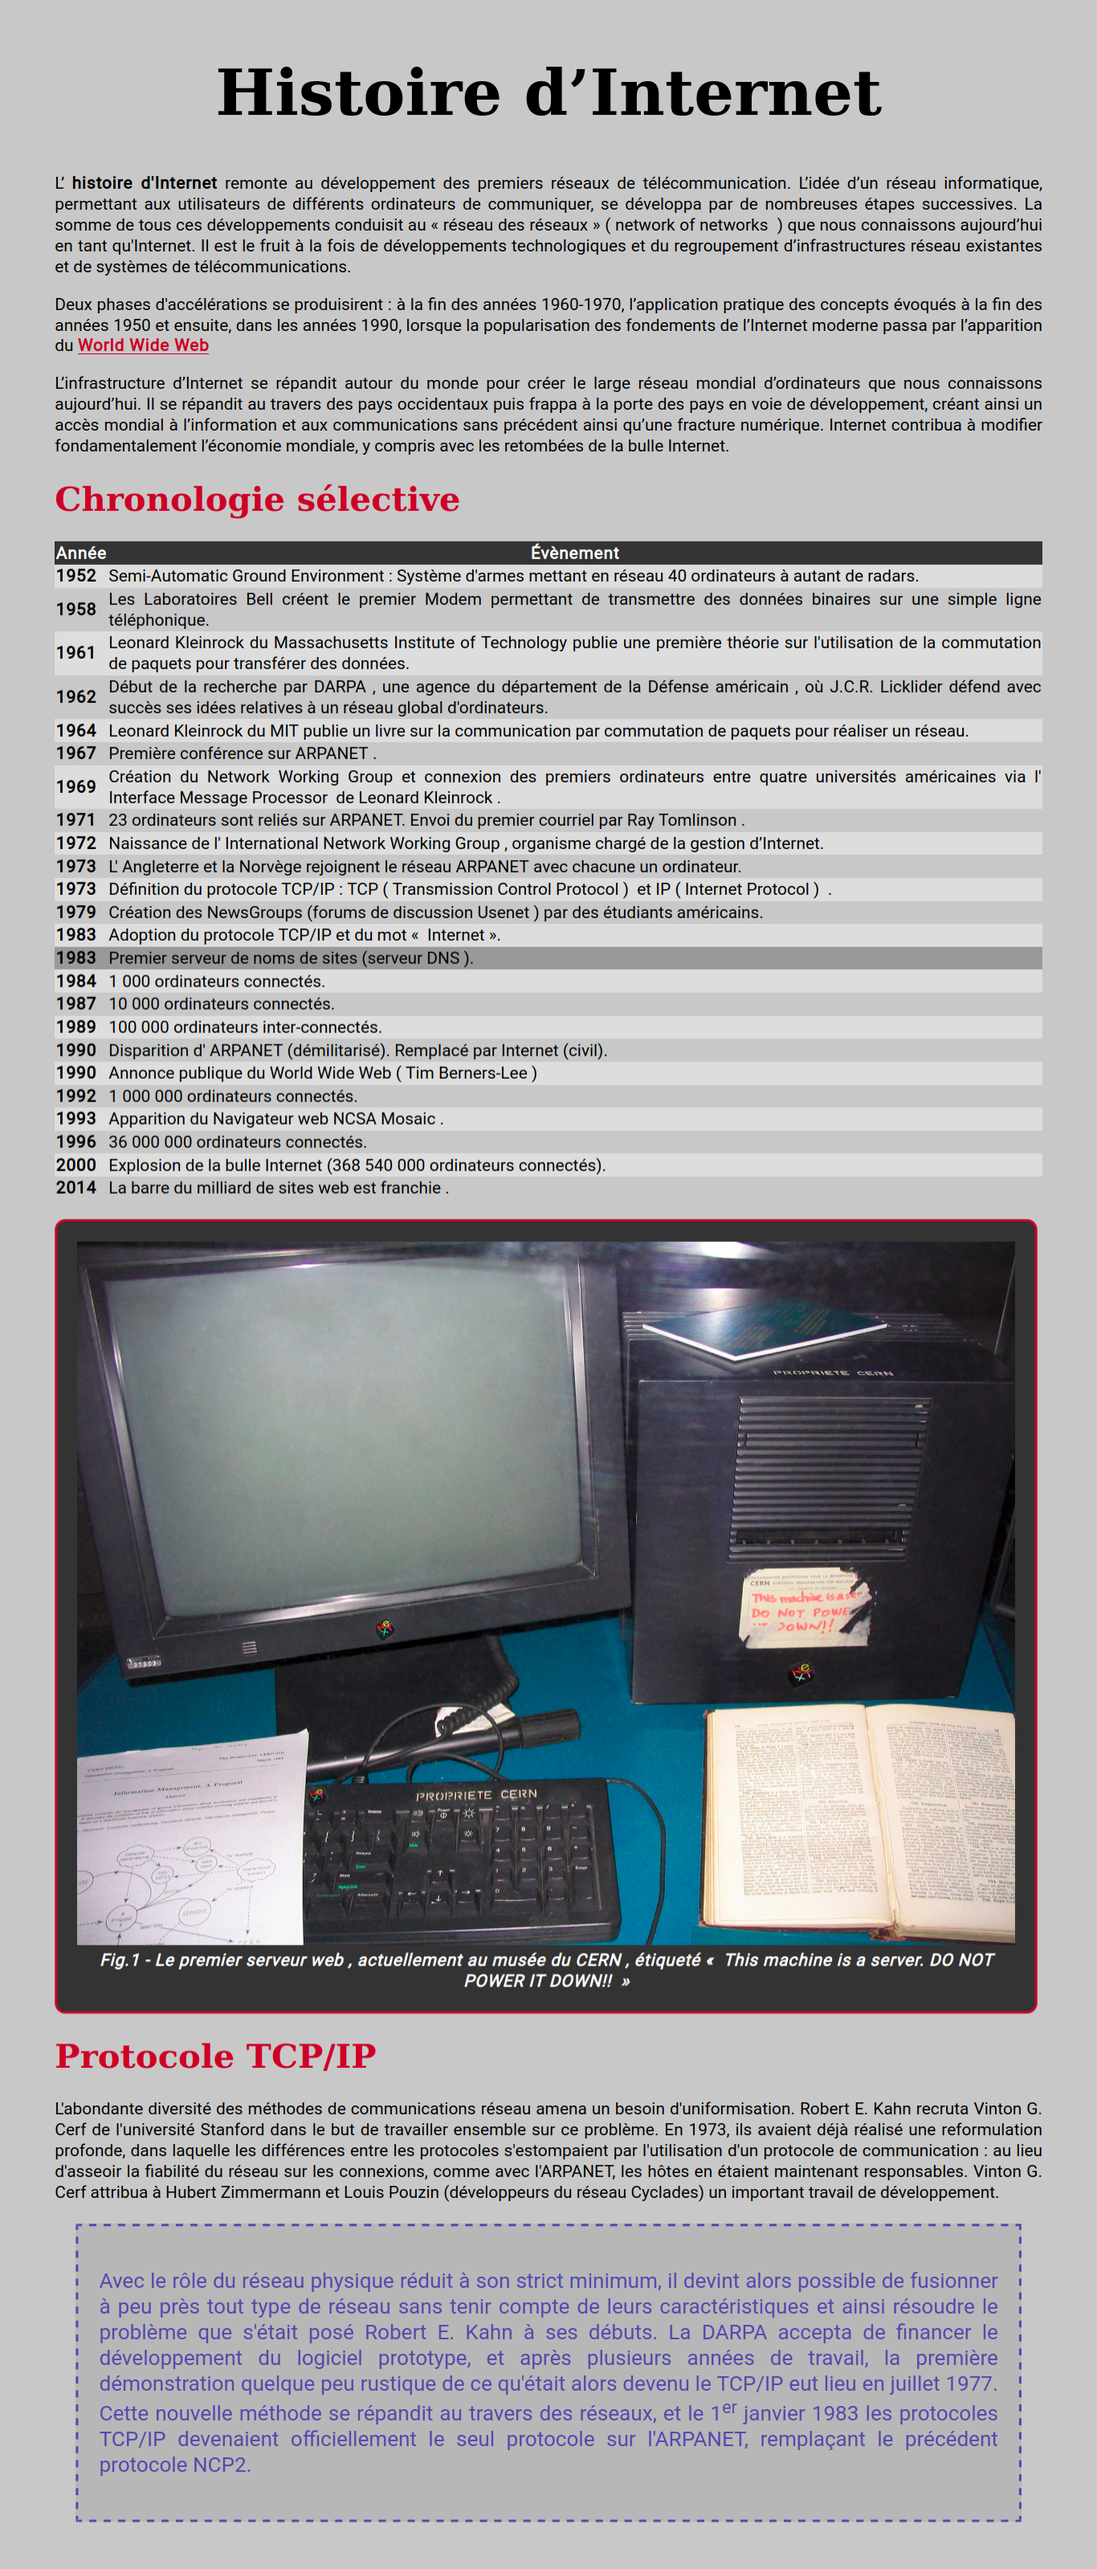
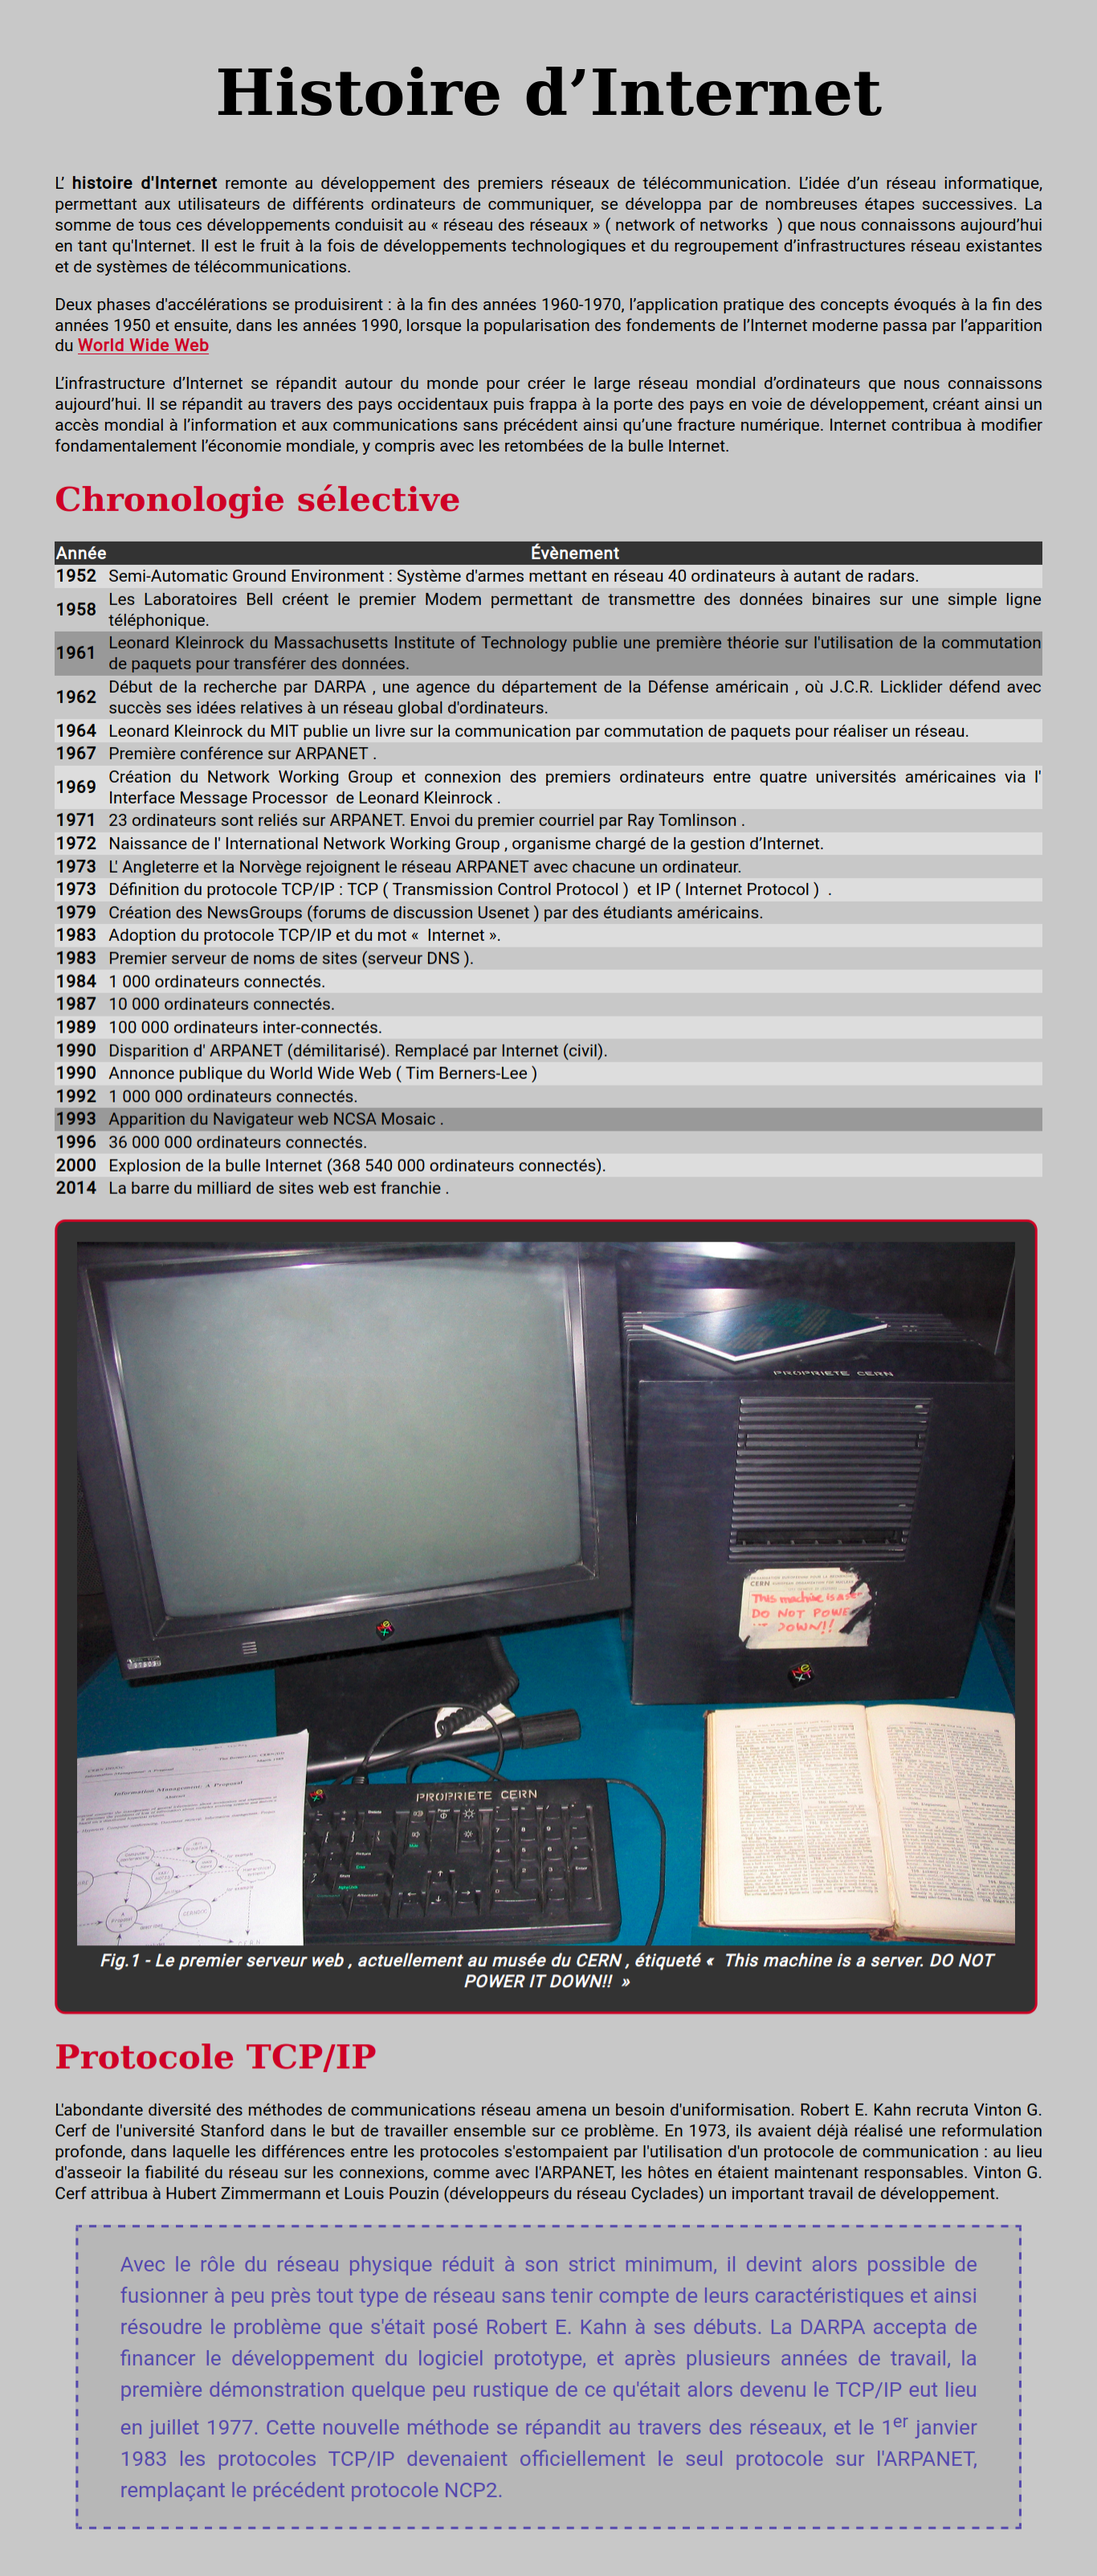
Correction du CSS

Changed region(s): [[0.0307, 0.0619, 0.9531, 0.9906], [0.0922, 0.5263, 0.123, 0.5572]]

diff --git a/css/style.css b/css/style.css
@@ -106,4 +106,8 @@ figcaption
 {
 	color: #5448ae;
 	font-size: 20px;
+	line-height: 30px;
+	margin: 20px;
+	margin-top: 0 ; 
+	margin-bottom: 0;
 }
